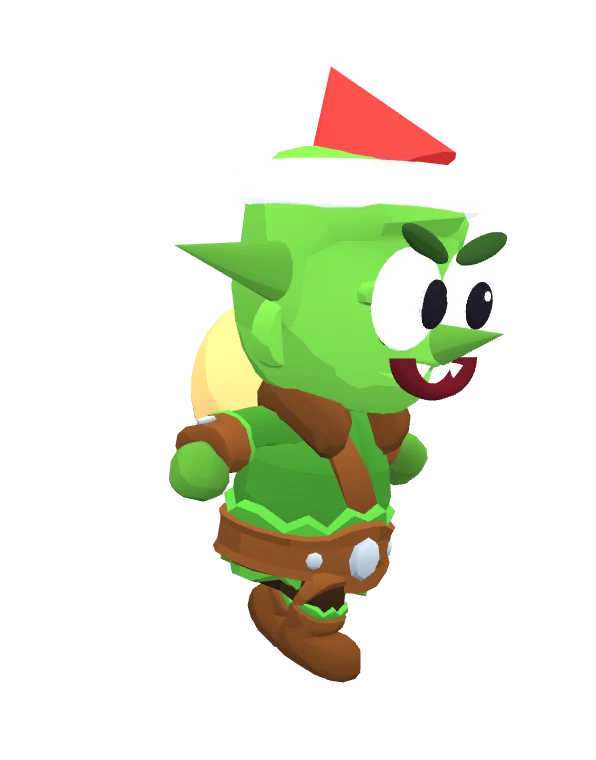
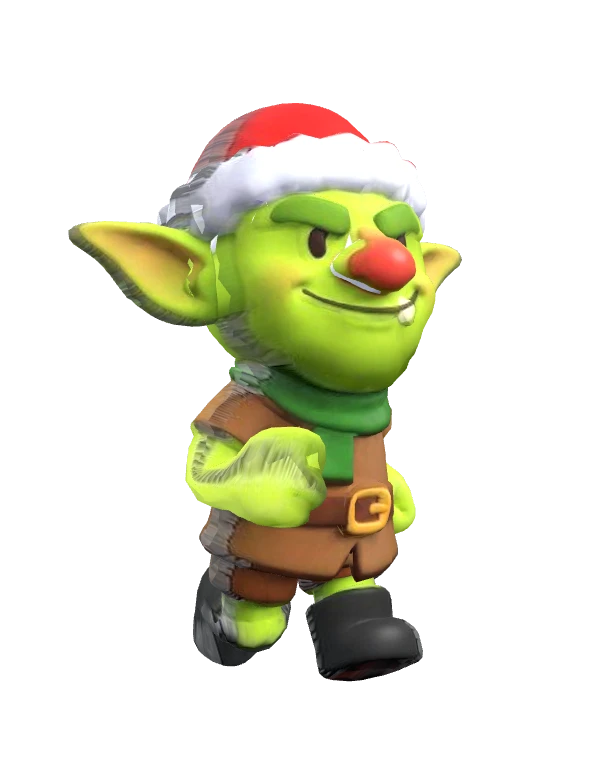
2D Zibo resimleri yeni 3D Zibo'dan yeniden çizildi
Claude-Session: https://claude.ai/code/session_0191AENRj6NxBSee7MxoHGTm

Changed region(s): [[0.1208, 0.0908, 0.8456, 0.9079]]

diff --git a/sw.js b/sw.js
@@ -1,6 +1,6 @@
 // İnternetsiz çalışma. Önce ağı dener (yeni görseller hemen görünsün), ağ yoksa hafızadan verir.
 importScripts('sw-files.js');
-const CACHE = 'catchzibo-v146';
+const CACHE = 'catchzibo-v147';
 
 // İlk açılışta yalnız oyunun çekirdeği (kod, yazı tipi, arayüz) iner; görseller oynadıkça önbelleğe girer.
 // Böylece telefon ilk açılışta yüzlerce dosya indirmez.
